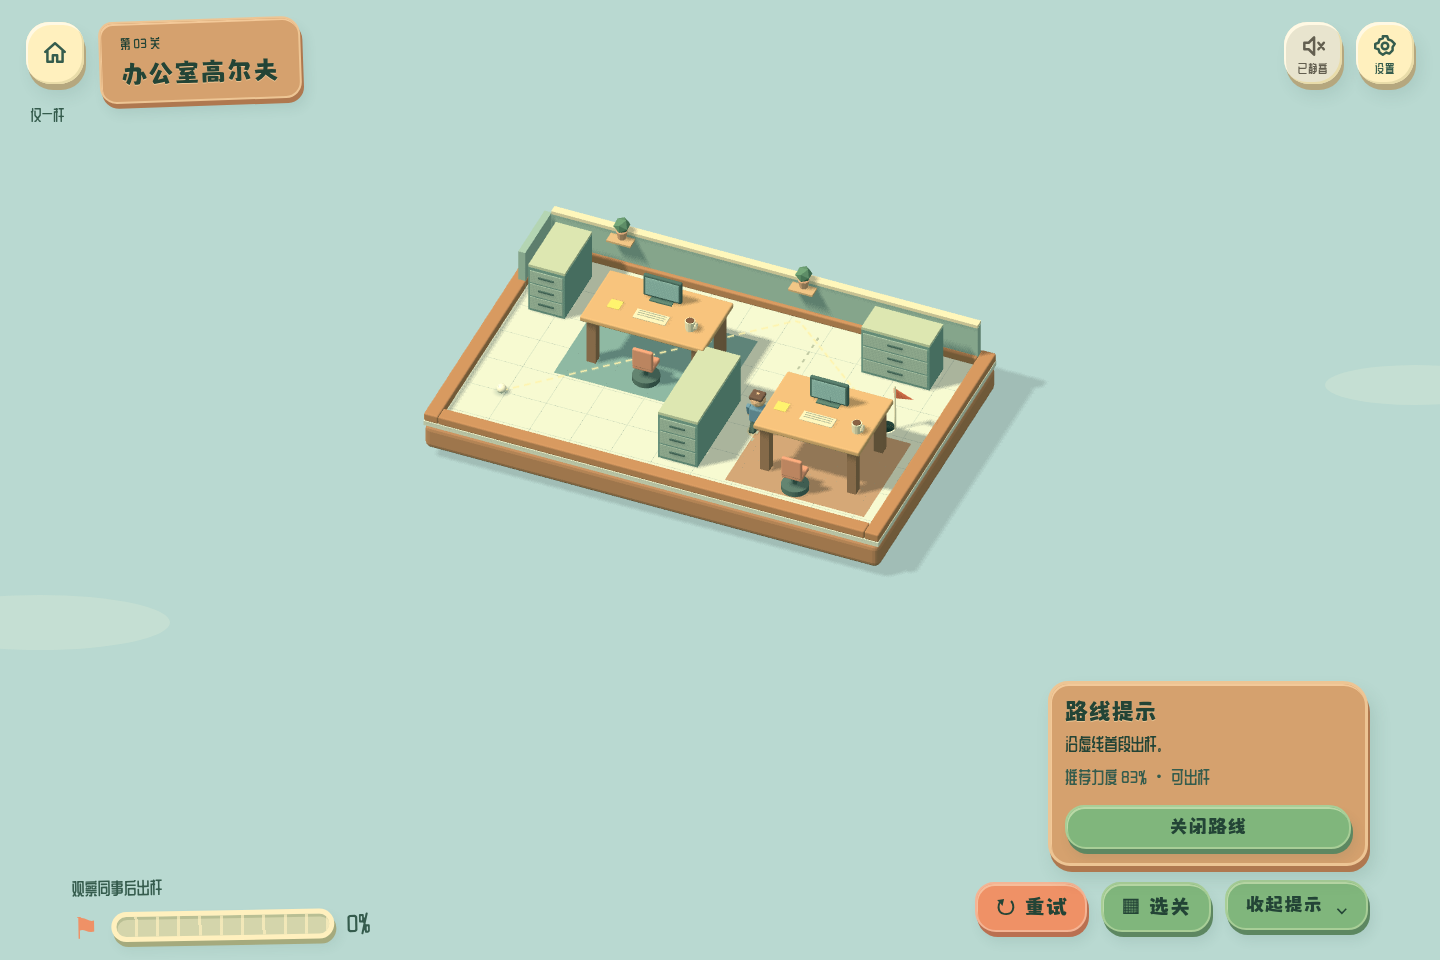
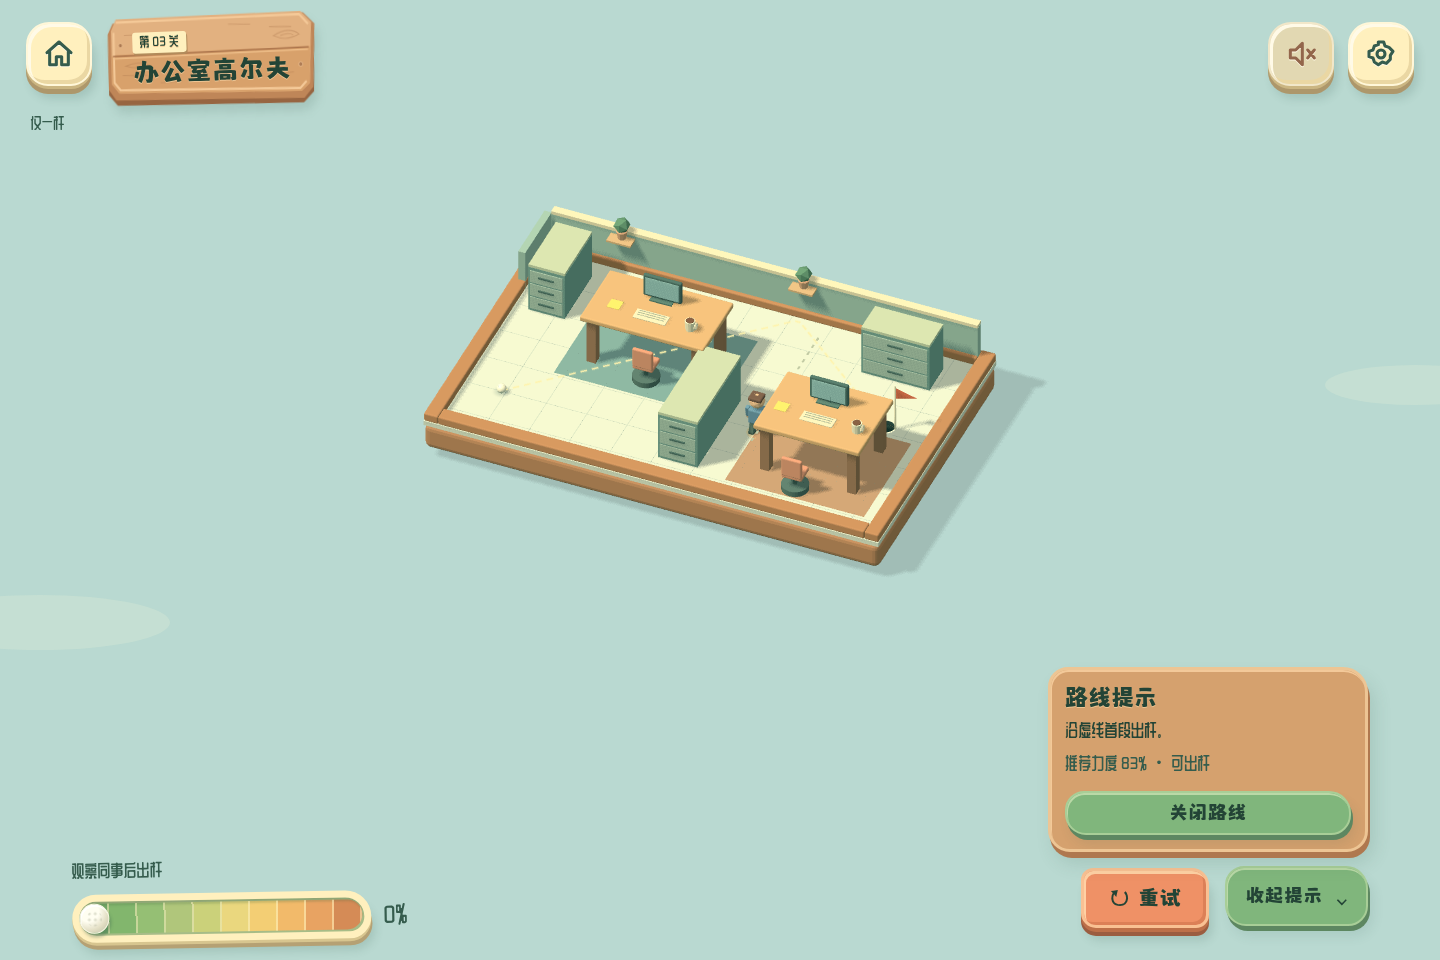
feat: build dimensional toy UI props for stage A

diff --git a/src/stage-a.css b/src/stage-a.css
@@ -1,0 +1,96 @@
+/* Stage A only: physical prop skins. No field/camera/font/route changes. */
+.wood-prop { position: absolute; inset: 0; width: 100%; height: 100%; pointer-events: none; z-index: -1; overflow: visible; filter: drop-shadow(3px 8px 5px #355c4d25); }
+#map-labels .map-label, #start.wood-sign, .level-title { isolation: isolate; background: transparent; border: 0; border-radius: 0; box-shadow: none !important; text-shadow: 0 1px #f3c795; }
+#map-labels .map-label { --plank-y: -16px; padding: 16px 24px 14px; min-width: 184px; min-height: 89px; }
+#map-labels .map-label::before, #map-labels .map-label::after { display: none; }
+#map-labels .map-label strong { position: relative; line-height: 1.3; }
+.plank-hangers { position: absolute; top: -13px; left: 25%; width: 8px; height: 23px; background: #a5784f; border-radius: 3px; border-left: 2px solid #e5ba83; box-shadow: 2px 2px #805b3c; z-index: -2; }
+.plank-hangers::after { content: ''; position: absolute; left: 82px; top: 0; width: 6px; height: 23px; border-radius: 3px; background: #a5784f; border-left: 2px solid #e5ba83; box-shadow: 2px 2px #805b3c; }
+.level-number { position: absolute; left: -9px; top: -12px; padding: 4px 8px; background: #fff0be; border: 2px solid #fff7dc; border-radius: 5px 3px 6px 3px; box-shadow: 1px 4px #b99560, 3px 6px 4px #705b4225; transform: rotate(-6deg); color: #355c4d; font-size: 20px; line-height: 1; }
+.difficulty { display: flex; align-items: center; justify-content: center; gap: 4px; height: 28px; margin-top: 4px; pointer-events: none; }
+.difficulty svg { width: 27px; height: 28px; filter: drop-shadow(1px 2px 1px #845f363d); }
+#map-labels .map-label .progress { right: 5px; top: -8px; font-style: normal; font-size: 18px; color: #355c4d; background: #fff0be; border-radius: 50%; width: 22px; height: 22px; display: grid; place-items: center; text-shadow: none; box-shadow: 0 3px #b99560; }
+#map-labels .map-label .progress:empty { display: none; }
+#map-labels .map-label:hover, #map-labels .map-label.active { filter: brightness(1.05); }
+#map-labels .map-label:active { box-shadow: none !important; }
+#start.wood-sign { display: flex; align-items: center; justify-content: center; gap: 14px; padding: 20px 28px 24px; min-width: 218px; min-height: 82px; transform: rotate(-5deg); }
+#start.wood-sign::before, #start.wood-sign::after { display: none; }
+#start.wood-sign strong { margin: 0; position: relative; }
+#start.wood-sign .start-play { font-size: 25px; line-height: 1; color: #355c4d; filter: drop-shadow(0 2px #f8d9a4); }
+#start.wood-sign:hover { transform: rotate(-3deg) translateY(-4px) scale(1.035); }
+#start.wood-sign:active { transform: rotate(-3deg) translateY(5px) scale(.96); }
+/* Ceramic cap, extrusion and contact shadow; pressed state exposes less base. */
+header .icon { width: 66px; height: 64px; border: 2px solid #fff7d9; border-radius: 23px 23px 21px 22px; background: #fff0be; box-shadow: inset 3px 3px #fffae7, inset -3px -4px #ead7a3, 0 3px #cbb682, 0 8px #ad976b, 4px 13px 8px #355c4d28; transition: transform .3s var(--toy-bounce), box-shadow .15s; }
+header .icon-label { display: none; }
+header .icon svg { width: 32px; height: 32px; filter: drop-shadow(0 1px #fffae7); }
+header .icon:hover { transform: translateY(-3px) rotate(-3deg); }
+header .icon:active { transform: translateY(6px) scale(.94,.91); box-shadow: inset 2px 3px 4px #b9a87a55, 0 2px #ad976b, 2px 4px 3px #355c4d25; }
+header .icon.muted { background: #e2d8b2; border-color: #f1e7c9; color: #93664b; }
+.level-title { padding: 13px 25px 20px; left: 108px; top: 14px; min-height: 88px; }
+.level-title h2 { margin-top: 3px; white-space: nowrap; }
+.level-title > span { background: #fff0be; padding: 2px 7px; border-radius: 3px; box-shadow: 1px 2px #b28b5b; display: inline-block; }
+#shot { top: 112px; }
+/* A cast base plus an inset bevel: primary clay, secondary timber. */
+#game .controls > #retry { border: 3px solid #f9c193; background: #ef9166; border-radius: 12px 17px 13px 15px; min-height: 60px; padding: 12px 25px; box-shadow: inset 2px 3px #ffd1a4, inset -3px -3px #dc8057, 0 4px #bd7049, 0 8px #9b5d40, 4px 13px 8px #355c4d25; }
+#game .controls > #retry:hover { transform: translateY(-3px) rotate(-2deg); }
+#game .controls > #retry:active { transform: translateY(6px) scale(.96,.92); box-shadow: inset 1px 3px 4px #9b5d4055, 0 2px #9b5d40; }
+#game .controls { display: flex; gap: 16px; }
+/* Ready and moving: one restart. Success/failure: only settlement actions. */
+body:has(#result:not([hidden])) .game-bottom { visibility: hidden; }
+/* Ten individually coloured toy blocks, physical cream housing and rolling pointer. */
+.feedback { width: 365px; }
+.power-row { position: relative; gap: 12px; }
+.power-row .tee-icon { display: none; }
+.meter { --power: 0; height: 48px; min-width: 100px; border: 7px solid #fff0be; border-radius: 27px 30px 25px 28px; overflow: visible; background: #a7bc87; box-shadow: inset 2px 3px 3px #59734d50, 0 3px #d7c58f, 1px 7px #b5a174, 4px 12px 9px #355c4d26; }
+.meter > i { display: none; }
+.meter-ticks { inset: 2px; border-radius: 17px; background: linear-gradient(90deg,#73a867 0% 10%,#82b66d 10% 20%,#95bf74 20% 30%,#b0c67b 30% 40%,#cbd17a 40% 50%,#ead77e 50% 60%,#f3ce74 60% 70%,#f2ba6a 70% 80%,#e8a362 80% 90%,#d58b56 90%); box-shadow: inset 1px 2px 2px #45694238; }
+.meter-ticks::after { content: ''; position: absolute; inset: 0; border-radius: inherit; background: repeating-linear-gradient(90deg,transparent 0 calc(10% - 2px),#fff0be8c calc(10% - 2px) 10%); }
+.power-ball { position: absolute; top: 50%; left: calc(15px + (100% - 30px) * var(--power)); width: 30px; height: 30px; border-radius: 50%; transform: translate(-50%,-50%); background: radial-gradient(circle at 30% 24%,#fffef1 0 35%,#e3dfc5 65%,#bbbba1 100%); border: 1px solid #f9f7e5; box-shadow: inset 1px 2px #fff, 2px 4px 3px #355c4d4d; transition: left .04s; }
+.power-ball::after { content: ''; position: absolute; inset: 6px; border-radius: 50%; background: radial-gradient(circle,#bec1aa 0 1px,transparent 2px) 0 0/6px 6px; opacity: .45; }
+#percent { min-width: 54px; }
+@media(max-width:650px) {
+  header .icon { width: 48px; height: 50px; border-radius: 17px 18px 16px 17px; }
+  header .icon svg { width: 28px; height: 28px; }
+  .header-tools { gap: 10px; }
+  #map-labels .map-label { --plank-y: -22px; min-width: 150px; min-height: 76px; padding: 12px 16px 10px; }
+  #map-labels .map-label strong { line-height: 1.3; }
+  .difficulty { height: 24px; margin-top: 2px; gap: 3px; }
+  .difficulty svg { width: 23px; height: 24px; }
+  .level-number { font-size: 17px; left: -7px; top: -10px; padding: 4px 7px; }
+  .plank-hangers::after { left: 66px; }
+  #start.wood-sign { min-width: 180px; min-height: 70px; padding: 17px 22px 20px; gap: 10px; }
+  #start.wood-sign .start-play { font-size: 21px; }
+  .level-title { left: 79px; top: 13px; padding: 10px 14px 16px; min-height: 79px; max-width: calc(100vw - 208px); }
+  .level-title h2 { white-space: nowrap; }
+  .level-title > span { padding: 1px 4px; }
+  #shot { top: 102px; }
+  .feedback { width: 100%; }
+  .meter { height: 43px; border-width: 6px; }
+  .power-ball { width: 28px; height: 28px; }
+  #game .controls { gap: 12px; }
+  #game .controls > #retry { min-height: 54px; padding: 10px 20px; flex: 1; }
+  #route-dock { flex: 1.3; }
+  #route-drawer { min-height: 54px; }
+}
+@media(max-width:370px) {
+  .level-title { left: 74px; padding-left: 10px; padding-right: 10px; max-width: calc(100vw - 202px); }
+  header .icon { width: 44px; }
+  .header-tools { gap: 8px; }
+  #start.wood-sign { min-width: 166px; padding-left: 18px; padding-right: 18px; }
+}
+@media(max-height:530px) and (min-width:651px) {
+  #map-labels .map-label { min-height: 66px; min-width: 160px; padding: 10px 18px 9px; --plank-y: -16px; }
+  .difficulty { height: 22px; margin-top: 1px; }
+  .difficulty svg { width: 21px; height: 22px; }
+  #start.wood-sign { min-height: 64px; padding: 13px 20px 16px; min-width: 185px; }
+  .level-title { min-height: 70px; padding-top: 8px; padding-bottom: 14px; }
+}
+@media(prefers-reduced-motion:reduce) {
+  header .icon, #map-labels .map-label, #start.wood-sign, #game .controls > #retry, .power-ball { transition: none; }
+}
+/* Keep the HUD in a stable compositing layer above the WebGL canvas. */
+header .header-tools { transform: translateZ(0); }
+/* Settlement buttons share the same bases; ribbon artwork waits for stage C. */
+.result-actions button { position: relative; border: 2px solid #efc48f; border-radius: 10px 15px 11px 13px; background: #dfb17f; color: #355c4d; box-shadow: inset 2px 3px #f5d29f, inset -2px -3px #c79765, 0 4px #b38151, 0 7px #956a46, 3px 10px 6px #355c4d20; padding: 12px 18px; }
+.result-actions #next { background: #80b67c; border-color: #b3d69a; box-shadow: inset 2px 3px #c5dda8, inset -2px -3px #72a46c, 0 4px #5c8a5d, 0 7px #46734f, 3px 10px 6px #355c4d20; }
+.result-actions button:active { transform: translateY(5px) scale(.96,.93); box-shadow: inset 1px 3px #355c4d20, 0 2px #956a46; }

diff --git a/src/main.ts b/src/main.ts
@@ -2,6 +2,8 @@ import "./style.css";
 import "./toy-ui.css";
 import "./fonts.css";
 import "./typography.css";
+import "./stage-a.css";
+import { woodProp, difficultyStars } from "./ui-props";
 import { icon } from "./ui-icons";
 import gameLogo from "./assets/game-logo.png";
 import { levels } from "./levels";
@@ -15,8 +17,8 @@ function boot() {
   const app = document.querySelector<HTMLDivElement>("#app")!;
   app.innerHTML = `<div class="cloud cloud-a"></div><div class="cloud cloud-b"></div><div id="viewport"><canvas aria-label="立体高尔夫球场：按住白球向后拖拽，松手击球"></canvas></div>
 <header><button id="home" class="icon" aria-label="返回选关">${icon("home")}</button><div class="header-tools"><button id="sound" class="icon" aria-label="关闭音效" aria-pressed="true">${icon("sound")}<span class="icon-label">音效开</span></button><button id="settings-open" class="icon" aria-label="打开设置" aria-haspopup="dialog">${icon("settings")}<span class="icon-label">设置</span></button></div></header>
-<section id="menu"><div class="logo has-official-logo"><h1><img class="official-logo" src="${gameLogo}" width="2023" height="777" alt="一杆归洞" draggable="false" fetchpriority="high"></h1></div><div id="map-labels">${destinations.map((d, i) => `<button class="map-label" data-level="${i}" aria-label="进入第${i + 1}关 ${d.title}"><strong>${d.title}</strong><i class="progress"></i><b class="enter-mark">↗</b></button>`).join("")}</div><button id="start" class="wood-sign"><strong>开始游戏 <span>➜</span></strong></button><button id="menu-assist" class="assist-setting" aria-pressed="false">⚑ 办公室路线辅助：关闭</button></section>
-<section id="game" hidden><div class="level-title"><span id="subtitle"></span><h2 id="title"></h2></div><div id="shot" class="shot">● 一杆机会</div><div id="tutorial" hidden><span class="hand">☝</span><strong>拖拽白球，松手击球</strong><button id="tutorial-close">知道了</button></div><div class="game-bottom"><div class="feedback"><span id="status" role="status" aria-live="polite">拖拽白球以瞄准</span><div class="power-row"><span class="tee-icon">⚑</span><div class="meter"><i id="power"></i><span class="meter-ticks"></span></div><b id="percent">0%</b></div></div><div class="controls"><button id="retry">↻ 重试</button><button id="back">▦ 选关</button><aside id="route-dock" hidden><button id="route-drawer" aria-expanded="false" aria-controls="route-content">路线提示 <span aria-hidden="true">⌃</span></button><div id="route-content" hidden><h3>路线提示</h3><p class="route-note">沿虚线首段出杆。</p><div id="route-help" hidden role="status"><span id="route-message"></span><button id="offer-route" hidden>显示路线</button></div><button id="route-toggle" aria-pressed="false">⚑ 显示路线</button></div></aside></div><p id="hint"></p></div></section>
+<section id="menu"><div class="logo has-official-logo"><h1><img class="official-logo" src="${gameLogo}" width="2023" height="777" alt="一杆归洞" draggable="false" fetchpriority="high"></h1></div><div id="map-labels">${destinations.map((d, i) => `<button class="map-label" data-level="${i}" aria-label="进入第${i + 1}关 ${d.title}">${woodProp()}<span class="plank-hangers" aria-hidden="true"></span><span class="level-number" aria-hidden="true">0${i+1}</span><strong>${d.title}</strong>${difficultyStars(i+1)}<i class="progress" aria-label="通关进度"></i></button>`).join("")}</div><button id="start" class="wood-sign">${woodProp()}<span class="start-play" aria-hidden="true">▶</span><strong>开始游戏</strong></button><button id="menu-assist" hidden class="assist-setting" aria-pressed="false">⚑ 办公室路线辅助：关闭</button></section>
+<section id="game" hidden><div class="level-title">${woodProp()}<span id="subtitle"></span><h2 id="title"></h2></div><div id="shot" class="shot">● 一杆机会</div><div id="tutorial" hidden><span class="hand">☝</span><strong>拖拽白球，松手击球</strong><button id="tutorial-close">知道了</button></div><div class="game-bottom"><div class="feedback"><span id="status" role="status" aria-live="polite">拖拽白球以瞄准</span><div class="power-row"><span class="tee-icon" aria-hidden="true">⚑</span><div class="meter"><i id="power"></i><span class="meter-ticks"></span><span class="power-ball" aria-hidden="true"></span></div><b id="percent">0%</b></div></div><div class="controls"><button id="retry">↻ 重试</button><button id="back" hidden>▦ 选关</button><aside id="route-dock" hidden><button id="route-drawer" aria-expanded="false" aria-controls="route-content">路线提示 <span aria-hidden="true">⌃</span></button><div id="route-content" hidden><h3>路线提示</h3><p class="route-note">沿虚线首段出杆。</p><div id="route-help" hidden role="status"><span id="route-message"></span><button id="offer-route" hidden>显示路线</button></div><button id="route-toggle" aria-pressed="false">⚑ 显示路线</button></div></aside></div><p id="hint"></p></div></section>
 <dialog id="settings" aria-labelledby="settings-title"><div class="settings-head"><div><h2 id="settings-title">设置</h2></div><button id="settings-close" class="icon" aria-label="关闭设置">${icon("close")}</button></div><div class="setting-row"><div><strong>音效</strong></div><button id="settings-sound" class="toy-switch" role="switch" aria-label="游戏音效" aria-checked="true"><span class="switch-knob"></span><b>开</b></button></div><div class="setting-row"><div><strong>第三关路线辅助</strong></div><button id="settings-assist" class="toy-switch" role="switch" aria-label="办公室路线辅助" aria-checked="false"><span class="switch-knob"></span><b>关</b></button></div><button id="settings-done">返回游戏</button></dialog>
 <div id="result" hidden><div class="resultbox" role="dialog" aria-modal="true" aria-labelledby="result-title"><div class="ribbon-confetti" aria-hidden="true"><i style="--n:0">★</i><i style="--n:1">▪</i><i style="--n:2">▪</i><i style="--n:3">★</i><i style="--n:4">▪</i><i style="--n:5">▪</i><i style="--n:6">★</i><i style="--n:7">▪</i><i style="--n:8">▪</i><i style="--n:9">★</i><i style="--n:10">▪</i><i style="--n:11">▪</i></div><div id="stars">✦ ★ ✦</div><span id="result-label"></span><h2 id="result-title"></h2><p id="result-text"></p><div id="result-stats" hidden><div><small>本次用时</small><strong id="score-time"></strong></div><div><small>历史最佳</small><strong id="score-best"></strong></div><div><small>反弹次数</small><strong id="score-bounces"></strong></div></div><div id="result-route-offer" hidden><span>需要路线提示吗？</span><button id="result-route">显示路线</button></div><div class="result-actions"><button id="next" class="primary">下一关 →</button><button id="retry-result">↻ 再试一次</button><button id="result-menu">返回选关</button></div></div></div><div id="webgl-error" hidden role="alert"><h2>这个小世界暂时无法打开</h2><p>游戏需要 WebGL。请使用较新的 Chrome、Edge、Firefox 或 Safari，并开启浏览器硬件加速后刷新页面。</p><button onclick="location.reload()">重新加载</button></div>`;
   const el = (id: string) => document.getElementById(id)!;
@@ -110,7 +112,7 @@ function boot() {
       .forEach(
         (c, i) =>
           (c.querySelector(".progress")!.textContent = completed.includes(i)
-            ? "★"
+            ? "✓"
             : ""),
       );
     requestAnimationFrame(() => view.resize());
@@ -159,9 +161,11 @@ function boot() {
       ? Math.min(Math.hypot(drag.x - aim.x, drag.y - aim.y) / 150, 1)
       : 0;
     el("power").style.width = `${d * 100}%`;
+    el("power").parentElement!.style.setProperty("--power", String(d));
     el("percent").textContent = `${Math.round(d * 100)}%`;
     el("shot").textContent =
       ball.state === "ready" ? "仅一杆" : "已击球";
+    el("retry").hidden = ball.state === "won" || ball.state === "lost";
     el("status").textContent =
       ball.state === "ready"
         ? !tutorialSeen && !drag ? "" : drag

diff --git a/src/ui-props.ts b/src/ui-props.ts
@@ -1,0 +1,16 @@
+// Original responsive prop artwork. No reference-image crops or external assets.
+export function woodProp() {
+  return `<svg class="wood-prop" viewBox="0 0 320 120" preserveAspectRatio="none" aria-hidden="true">
+  <path fill="#976541" d="M11 12 304 9 319 24 316 105 300 119 13 115 0 101 2 28Z"/>
+  <path fill="#bf8658" d="m9 8 294-6 17 15-5 82-14 14-290-5L0 94 1 22Z"/>
+  <path fill="#e2b180" d="m14 3 285-3 16 15-5 79-13 10-281-5L5 87 6 18Z"/>
+  <path fill="#d8a16b" d="m13 49 299-3-2 48-13 10-281-5L5 87 6 51Z"/>
+  <path d="m14 7 283-3 13 13M10 20 9 85l9 10 277 5 10-9" fill="none" stroke="#f4c998" stroke-width="3"/>
+  <path d="m8 51 302-4" stroke="#ac754d" stroke-width="2"/><path d="m9 54 300-4" stroke="#edbd88" stroke-width="2"/>
+  <g fill="none" stroke="#ad784f" stroke-width="1.4" opacity=".36"><path d="m26 24 46-1m178-4 34 1M22 76l38 1m190 4 36-2M80 87l33-1M187 14l34 1"/><path d="M256 31c16-8 31-8 40-1-13 6-26 7-40 1Zm11 0q13-4 20 0"/><path d="M27 64q20-7 38 0-20 5-38 0Z"/></g>
+  <g fill="#ac7952" stroke="#f1c595" stroke-width="1"><circle cx="20" cy="37" r="3"/><circle cx="297" cy="69" r="3"/></g></svg>`;
+}
+export function difficultyStars(count: number) {
+  const star=`<svg viewBox="0 0 40 42" aria-hidden="true"><path fill="#bc7e32" d="m20 4 5.7 12 13 2-9.4 9.5 2.2 13L20 34.6 8.5 40.5l2.2-13L1.3 18l13-2Z"/><path fill="#f3bd47" d="m20 1 5.7 12 13 2-9.4 9.5 2.2 13L20 31.6 8.5 37.5l2.2-13L1.3 15l13-2Z"/><path fill="#ffe797" d="M20 1v20L1.3 15l13-2Zm0 20 9.3 3.5 2.2 13L20 31.6Z"/><path fill="#ffda6b" d="M20 21 8.5 37.5l2.2-13Z"/><path d="m17 10 3-6 4 9" fill="none" stroke="#fff1bd" stroke-width="1.5" stroke-linecap="round"/></svg>`;
+  return `<span class="difficulty" role="img" aria-label="难度 ${count} 星">${star.repeat(count)}</span>`;
+}

diff --git a/README.md b/README.md
@@ -166,3 +166,18 @@ npm run preview
 - 统一字体注册与角色变量：`src/fonts.css`；文字层级和窄屏适配：`src/typography.css`。标题预加载、本地度量适配回退，关闭合成粗体；完整来源、版本、散列见 `public/fonts/README.md`、`font-manifest.json` 和 `SHA256SUMS`。
 - 精简首页口号、重复操作说明和设置副标题，名称统一为「一杆归洞」。未提前制作后续横幅、灯泡木牌或新关卡。
 - 浏览器排版检查：启动开发服务器后运行 `node tests/typography.mjs`；现有交互与截图检查运行 `npm run test:ui`。实际截图在 `docs/screenshots/`，并非生成图。
+
+## UI 组件阶段 A：微缩道具
+
+参照仓库根目录 `ui-style-reference.png`，本阶段只更新选关木牌、难度章、首页主按钮、顶部 HUD、操作按钮及力度计。标题与正文继续沿用已确认字体（猫啃什锦黑／合法黄油体），未更换字体文件。
+
+- `src/ui-props.ts`：原创 SVG 叠层木牌（切角、拼板缝、克制木纹、倒角、侧面、钉帽）及分面金色玩具星章；不是参考图裁切贴图。SVG 可随按钮缩放，无外部素材和新增依赖。
+- `src/stage-a.css`：吊带／编号牌、陶瓷按钮高光与厚底座、接触阴影、按下压缩与回弹、分段力度计及球形指针。尊重减少动态效果设置。
+- 难度固定为 1／2／3 颗金星，不绘制灰色空星；独立勾号表示已通关。进度和最佳成绩仍用原有存储。
+- 首页底部路线辅助小字入口收起，已有设置里的路线辅助开关仍可使用。游戏内使用顶部首页按钮返回选关，底部移除重复返回；移动／待击球显示重试，结算时隐藏底部操作，使用既有结算按钮。
+- 力度计只读取现有拖拽比例，不改力度、发射、轨迹与物理。场景模型、岛屿布局、相机和所有关卡文件均未改动。
+- 设置面板、路线提示入口／木牌与胜利／纪录横幅造型留待阶段 B／C；本阶段仅统一结算操作按钮底座。
+
+验证：`npm run build`、`npm test`，启动后依次运行 `node tests/stage-a.mjs`、`node tests/menu.mjs`、`node tests/toy-ui.mjs`、`node tests/rewards.mjs`。阶段 A 截图为 `docs/screenshots/stage-a-menu-{desktop,mobile,small,landscape}.png`、`stage-a-office-{desktop,mobile,small,landscape}.png` 和 `stage-a-aim.png`。截图来自 Chromium 实际运行，不是生成图。
+
+对照参考图：本阶段已落实切角拼板、明显侧边、顶部高光、右下接触阴影、金星分面和奶油色力度计外壳；UI 采用可交互的矢量道具层，不是场景替换或参考图贴片。首页开始按钮仍沿用原有锚点、三岛构图及镜头不变。参考中的灯泡提示牌、木框设置和布旗／金色纪录横幅尚未实施，分别属于后续 B、C 阶段。
